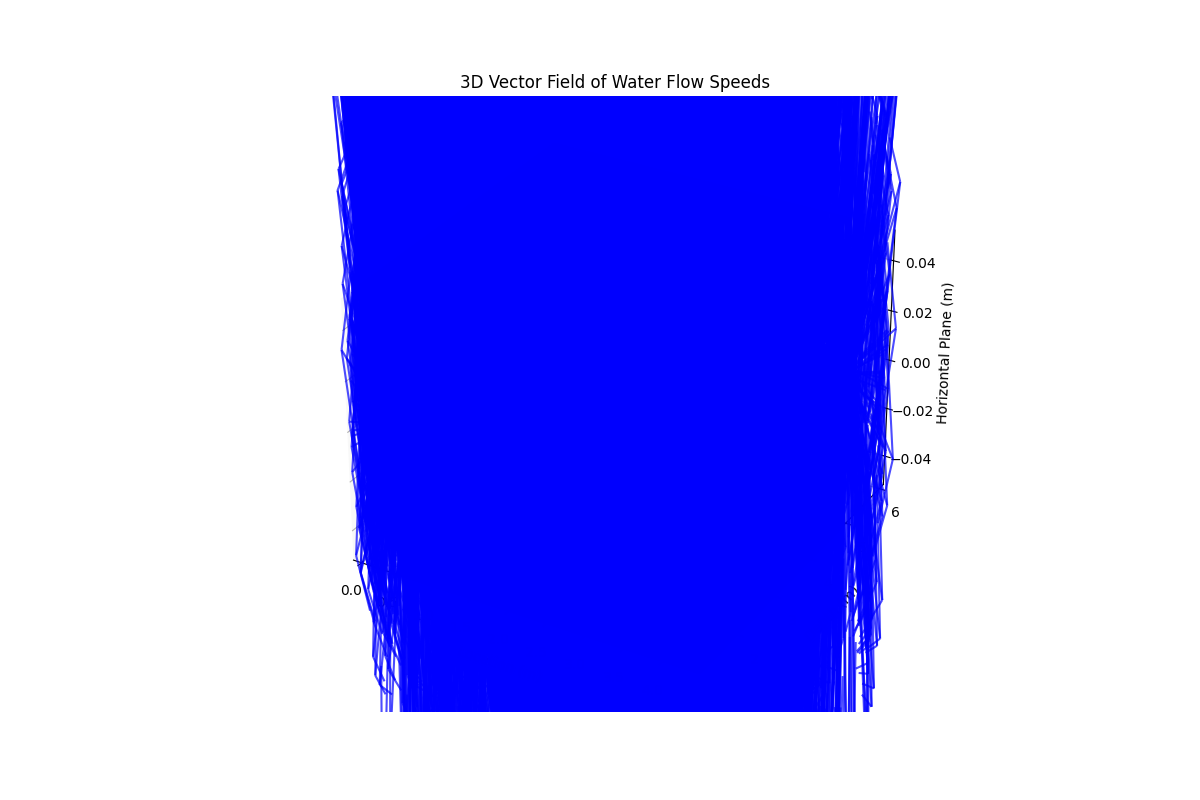
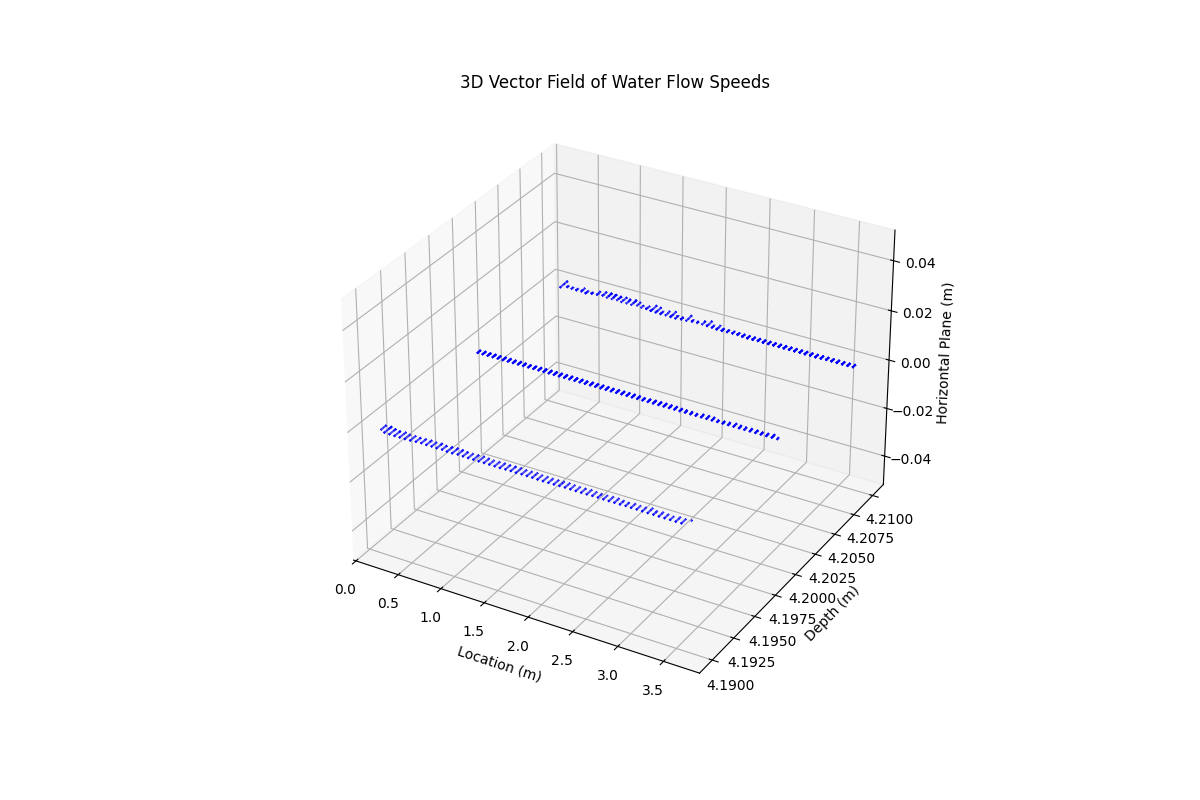
successfully plots

diff --git a/main.py b/main.py
@@ -1,25 +1,50 @@
-
-
-
-import pandas as pd
-import numpy as np
 import matplotlib.pyplot as plt
 from mpl_toolkits.mplot3d import Axes3D
+import geopandas as gpd
+import pandas as pd
+import numpy as np
 
-# Replace 'your_dataframe.csv' with the path to your dataset or load your DataFrame
-# df = pd.read_csv('your_dataframe.csv')
-# Assuming df is already loaded as a DataFrame
+def dms_to_dd(dms_str):
+    """Convert DMS (Degrees, Minutes, Seconds) to Decimal Degrees."""
+    try:
+        dms_str = dms_str.replace("°", "").replace("'", "").replace('"', "").strip()
+        parts = dms_str.split()
+        degrees = float(parts[0])
+        minutes = float(parts[1])
+        seconds = float(parts[2]) if len(parts) > 2 else 0
+        dd = degrees + minutes / 60 + seconds / 3600
+        return dd
+    except Exception as e:
+        print(f"Error converting DMS '{dms_str}': {e}")
+        return np.nan
 
-def plot_3d_vector_field(df):
+def plot_3d_vector_field(vel_df, sum_df):
     """
-    Plots a 3D vector field of water flow speed for all measured depths.
+    Plots a 3D vector field of water flow speed with location data.
 
     Parameters:
-        df (pd.DataFrame): The DataFrame containing the water flow data.
+        vel_df (pd.DataFrame): Velocity data DataFrame
+        sum_df (pd.DataFrame): Location summary data DataFrame
     """
+    # Merge velocity and location dataframes
+    merged_df = pd.merge(vel_df, sum_df, on='Sample #', how='inner', suffixes=('', '_double'))
+    merged_df = merged_df.loc[:, ~merged_df.columns.str.endswith('_double')]
+    
+    # Convert latitude and longitude to decimal degrees
+    merged_df['Latitude (deg)'] = merged_df['Latitude (deg)'].apply(dms_to_dd)
+    merged_df['Longitude (deg)'] = merged_df['Longitude (deg)'].apply(dms_to_dd)
+    
+    # Convert to geodataframe for coordinate transformation
+    gdf = gpd.GeoDataFrame(
+        merged_df,
+        geometry=gpd.points_from_xy(merged_df["Longitude (deg)"], merged_df["Latitude (deg)"]),
+        crs="EPSG:4326"
+    )
+    gdf = gdf.to_crs("EPSG:32632")  # Convert to UTM Zone 32
+    
     # Initialize lists to store data for plotting
-    x, y, z = [], [], []  # Position coordinates (depth and cell locations)
-    u, v, w = [], [], []  # Velocity components (Ve, Vn, Vu)
+    x, y, z = [], [], []  # Position coordinates
+    u, v, w = [], [], []  # Velocity components
 
     # Loop through each cell column to extract data
     for i in range(1, 64):  # Assuming there are 63 cells (Cell1 to Cell63)
@@ -28,14 +53,14 @@ def plot_3d_vector_field(df):
         vn_col = f'Cell{i} Vn (m/s)'
         vu_col = f'Cell{i} Vu (m/s)'
 
-        if location_col in df.columns and ve_col in df.columns:
+        if location_col in gdf.columns and ve_col in gdf.columns:
             # Filter out rows where any relevant value is NaN
-            valid_rows = df[[location_col, 'Depth (m)', ve_col, vn_col, vu_col]].dropna()
+            valid_rows = gdf[[location_col, 'Depth (m)', ve_col, vn_col, vu_col, 'geometry']].dropna()
 
             # Append data to the lists
-            x.extend(valid_rows[location_col])
-            y.extend(valid_rows['Depth (m)'])
-            z.extend([0] * len(valid_rows))  # Assume all measurements occur at the same horizontal plane
+            x.extend(valid_rows['geometry'].x)
+            y.extend(valid_rows['geometry'].y)
+            z.extend(valid_rows[location_col])
             u.extend(valid_rows[ve_col])
             v.extend(valid_rows[vn_col])
             w.extend(valid_rows[vu_col])
@@ -48,30 +73,44 @@ def plot_3d_vector_field(df):
     v = np.array(v)
     w = np.array(w)
 
-    # Create a 3D quiver plot
+    # Calculate flow speed for coloring
+    speed = np.sqrt(u**2 + v**2 + w**2)
+    norm_speed = (speed - speed.min()) / (speed.max() - speed.min())
+
+    # Create 3D plot
     fig = plt.figure(figsize=(12, 8))
     ax = fig.add_subplot(111, projection='3d')
 
     # Normalize vectors for better visualization
-    magnitude = np.sqrt(u**2 + v**2 + w**2)
-    u /= magnitude
-    v /= magnitude
-    w /= magnitude
+    u_norm = u / speed
+    v_norm = v / speed
+    w_norm = w / speed
 
     # Plot the vector field
-    ax.quiver(x, y, z, u, v, w, length=0.5, normalize=True, color='b', alpha=0.7)
+    quiver = ax.quiver(
+        x, y, z, u_norm, v_norm, w_norm,
+        length=0.1,
+        normalize=True,
+        color=plt.cm.viridis(norm_speed)
+    )
 
-    # Set axis labels
-    ax.set_xlabel('Location (m)')
-    ax.set_ylabel('Depth (m)')
-    ax.set_zlabel('Horizontal Plane (m)')
+    # Add colorbar
+    mappable = plt.cm.ScalarMappable(cmap="viridis")
+    mappable.set_array(speed)
+    plt.colorbar(mappable, ax=ax, label="Flow Speed (m/s)")
 
-    # Set plot title
+    # Set labels and title
+    ax.set_xlabel('Easting (m)')
+    ax.set_ylabel('Northing (m)')
+    ax.set_zlabel('Depth (m)')
     ax.set_title('3D Vector Field of Water Flow Speeds')
 
-    plt.savefig("test.png")
+    plt.tight_layout()
+    plt.savefig("vector_field_plot.png")
+    plt.show()
 
 # Example usage:
-data_df = pd.read_csv("20250122130314.vel")
+data_vel_df = pd.read_csv("data/20250122130314.vel")
+data_sum_df = pd.read_csv("data/20250122130314.sum",encoding='ISO-8859-1')
 
-plot_3d_vector_field(data_df)
+plot_3d_vector_field(data_vel_df.iloc[:1000], data_sum_df.iloc[:1000])
